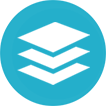
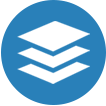
...

diff --git a/style.css b/style.css
@@ -14,7 +14,7 @@ h3,
 h4,
 h5 {
   text-transform: uppercase;
-  color: #e74c3c;
+  color: #2980b9;
   font-weight: 600; }
 
 a {
@@ -22,7 +22,7 @@ a {
   text-decoration: none; }
 
 .btn-default {
-  background-color: #e74c3c;
+  background-color: #2980b9;
   color: #ffffff;
   border: none;
   border-radius: 50px;
@@ -31,12 +31,12 @@ a {
 
 .btn-default:hover {
   background-color: #fff;
-  color: #e74c3c; }
+  color: #2980b9; }
 
 .btn-default:active,
 .btn-default:focus {
   box-shadow: none;
-  background-color: #e74c3c;
+  background-color: #2980b9;
   color: #ffffff;
   outline: none; }
 
@@ -80,13 +80,13 @@ a {
 .navbar-default .navbar-nav > li.signin {
   margin: 10px; }
   .navbar-default .navbar-nav > li.signin a {
-    color: #e74c3c;
+    color: #2980b9;
     background-color: transparent;
-    border-color: #e74c3c;
-    border: 2px solid #e74c3c;
+    border-color: #2980b9;
+    border: 2px solid #2980b9;
     border-radius: 2px; }
     .navbar-default .navbar-nav > li.signin a:hover {
-      background-color: #e74c3c;
+      background-color: #2980b9;
       color: #ffffff; }
   .navbar-default .navbar-nav > li.signin span {
     text-align: center;
@@ -137,7 +137,7 @@ a {
 /* end :: nav bar */
 /* start :: jumbotron */
 .jumbotron {
-  background: #000000 url("images/jumbotron_background.png") no-repeat;
+  background: #2f2f2f url("images/jumbotron_background.png") no-repeat;
   padding-top: 137px;
   padding-bottom: 30px;
   height: 35em;
@@ -198,15 +198,15 @@ a {
     .jumbotron .btn-default.iphone_icon:hover:before {
       background: url("images/iphone_icon_blue.png") no-repeat; }
   .jumbotron .dropdown > .btn-default {
-    color: #e74c3c;
+    color: #2980b9;
     background-color: transparent;
-    border-color: #e74c3c;
-    border: 2px solid #e74c3c;
+    border-color: #2980b9;
+    border: 2px solid #2980b9;
     border-radius: 2px;
     padding: 11px 20px;
     text-transform: capitalize; }
     .jumbotron .dropdown > .btn-default:hover {
-      background-color: #e74c3c;
+      background-color: #2980b9;
       color: #ffffff; }
   .jumbotron .dropdown .dropdown-menu {
     line-height: 4em; }
@@ -232,7 +232,7 @@ a {
       content: '';
       width: 80%;
       height: 3px;
-      background-color: #e74c3c;
+      background-color: #2980b9;
       display: block;
       margin: 0 auto;
       margin-top: 10px; }
@@ -249,7 +249,7 @@ a {
       margin: 0;
       padding: 0;
       margin-top: 30px;
-      font-size: 0.8em; }
+      font-size: 0.85em; }
       .features .feature-body .featured_item ul li {
         text-align: left;
         padding: 0 15px;
@@ -432,7 +432,7 @@ a {
       content: '';
       width: 50%;
       height: 3px;
-      background-color: #e74c3c;
+      background-color: #2980b9;
       display: block;
       margin: 0 auto;
       margin-top: 10px; }
@@ -465,16 +465,16 @@ a {
     background-repeat: no-repeat; }
   .contact_us_wrapper .contact-us-body .write_us .btn-default {
     border-radius: 2px;
-    border: 1px solid #e74c3c; }
+    border: 1px solid #2980b9; }
     .contact_us_wrapper .contact-us-body .write_us .btn-default:hover {
-      border: 1px solid #e74c3c;
+      border: 1px solid #2980b9;
       cursor: pointer; }
 
 /* end :: contact_us */
 /* start :: company_info */
 .compay_info {
   padding: 60px 15px;
-  background-color: #e74c3c;
+  background-color: #2980b9;
   color: #ffffff; }
   .compay_info h5 {
     color: #ffffff;
@@ -521,7 +521,7 @@ a {
 /* end :: company_info */
 /* start :: footer */
 footer {
-  background: #050912;
+  background: #4d545d;
   color: #ffffff;
   padding: 18px 0;
   font-size: 0.75em; }
@@ -606,7 +606,7 @@ footer {
   display: inline-block;
   margin-right: 25px; }
   #generic_hotel_form .apply_radio_button label.radio-inline:hover {
-    color: #e74c3c; }
+    color: #2980b9; }
 
 /* End :: generic hotel form css */
 .modal .btn-default[disabled] {
@@ -725,7 +725,7 @@ footer {
     /* Add additional styles here for the UNCOLLAPSED state */ }
 
   .navbar-default.affix {
-    background-color: rgba(0, 0, 0, 0.9);
+    background-color: #4d545d;
     border-color: #e7e7e7;
     border-width: 0 0 1px;
     box-shadow: 0 0 8px 0 rgba(0, 0, 0, 0.3);
@@ -778,7 +778,7 @@ footer {
         margin-bottom: 15px;
         font-size: 1em; }
       .features .feature-body .featured_item p {
-        font-size: .8em;
+        font-size: .9em;
         text-align: center; }
     .features .feature-body h3 {
       font-size: 1.375em;

diff --git a/frontend/partials/smallest.scss b/frontend/partials/smallest.scss
@@ -55,14 +55,14 @@
 .navbar-default .navbar-nav > li.signin {
   margin: 10px;
   a {
-    color: #e74c3c;
+    color: #2980b9;
     background-color: transparent;
-    border-color: #e74c3c;
-    border: 2px solid #e74c3c;
+    border-color: #2980b9;
+    border: 2px solid #2980b9;
     border-radius: 2px;
 
     &:hover {
-      background-color: #e74c3c;
+      background-color: #2980b9;
       color: #ffffff;
     }
   }
@@ -156,7 +156,7 @@
 
 /* start :: jumbotron */
 .jumbotron {
-  background: #000000 url('images/jumbotron_background.png') no-repeat;
+  background: #2f2f2f url('images/jumbotron_background.png') no-repeat;
   // padding-top: 167px;
   // padding-bottom: 60px;
   padding-top: 137px;
@@ -252,16 +252,16 @@
   }
 
   .dropdown > .btn-default {
-    color: #e74c3c;
+    color: #2980b9;
     background-color: transparent;
-    border-color: #e74c3c;
-    border: 2px solid #e74c3c;
+    border-color: #2980b9;
+    border: 2px solid #2980b9;
     border-radius: 2px;
     padding: 11px 20px;
     text-transform: capitalize;
 
     &:hover {
-      background-color: #e74c3c;
+      background-color: #2980b9;
       color: #ffffff;
     }
   }
@@ -301,7 +301,7 @@
         content: '';
         width: 80%;
         height: 3px;
-        background-color: #e74c3c;
+        background-color: #2980b9;
         display: block;
         margin: 0 auto;
         margin-top: 10px;
@@ -329,7 +329,7 @@
         margin: 0;
         padding: 0;
         margin-top: 30px;
-        font-size: 0.8em;
+        font-size: 0.85em;
 
         li{
           text-align: left;
@@ -609,7 +609,7 @@
 
 .more-consistent {
   padding: 60px 15px;
-  // background-color: #e74c3c;
+  // background-color: #2980b9;
   background: $primary_color_theme;
   color: #ffffff;
 
@@ -815,7 +815,7 @@
         content: '';
         width: 50%;
         height: 3px;
-        background-color: #e74c3c;
+        background-color: #2980b9;
         display: block;
         margin: 0 auto;
         margin-top: 10px;
@@ -869,10 +869,10 @@
     .write_us {
       .btn-default {
         border-radius: 2px;
-        border: 1px solid #e74c3c;
+        border: 1px solid #2980b9;
 
         &:hover {
-          border: 1px solid #e74c3c;
+          border: 1px solid #2980b9;
           cursor: pointer;
         }
       }
@@ -886,7 +886,7 @@
 
 .compay_info {
   padding: 60px 15px;
-  background-color: #e74c3c;
+  background-color: #2980b9;
   color: #ffffff;
 
   //  .container > .row:first-child > div{
@@ -977,7 +977,7 @@
 /* start :: footer */
 footer {
   // background-color: #0f5867;
-  background: #050912;
+  background: #4d545d;
   color: #ffffff;
   padding: 18px 0;
   font-size: 0.75em;
@@ -1142,7 +1142,7 @@ footer {
     margin-right: 25px;
 
     label.radio-inline:hover {
-      color: #e74c3c;
+      color: #2980b9;
     }
   }
 }

diff --git a/frontend/base.scss b/frontend/base.scss
@@ -18,7 +18,7 @@ h3,
 h4,
 h5 {
   text-transform: uppercase;
-  color: #e74c3c;
+  color: #2980b9;
   font-weight: 600;
 }
 
@@ -28,7 +28,7 @@ a {
 }
 
 .btn-default {
-  background-color: #e74c3c;
+  background-color: #2980b9;
   color: #ffffff;
   border: none;
   border-radius: 50px;
@@ -38,13 +38,13 @@ a {
 
 .btn-default:hover {
   background-color: #fff;
-  color: #e74c3c;
+  color: #2980b9;
 }
 
 .btn-default:active,
 .btn-default:focus {
   box-shadow: none;
-  background-color: #e74c3c;
+  background-color: #2980b9;
   color: #ffffff;
   outline: none;
 }

diff --git a/frontend/partials/min-width-48em.scss b/frontend/partials/min-width-48em.scss
@@ -76,8 +76,8 @@
 
 .navbar-default.affix {
   // padding: 0;
-  background-color: rgba(0, 0, 0, .9);
-  // background-color: #f8f8f8;
+  // background-color: rgba(0, 0, 0, .9);
+  background-color: #4d545d;
   border-color: #e7e7e7;
   border-width: 0 0 1px;
   box-shadow: 0 0 8px 0 rgba(0, 0, 0, .3);
@@ -235,7 +235,7 @@
       }
 
       p{
-        font-size: .8em;
+        font-size: .9em;
         text-align: center;
       }
       
